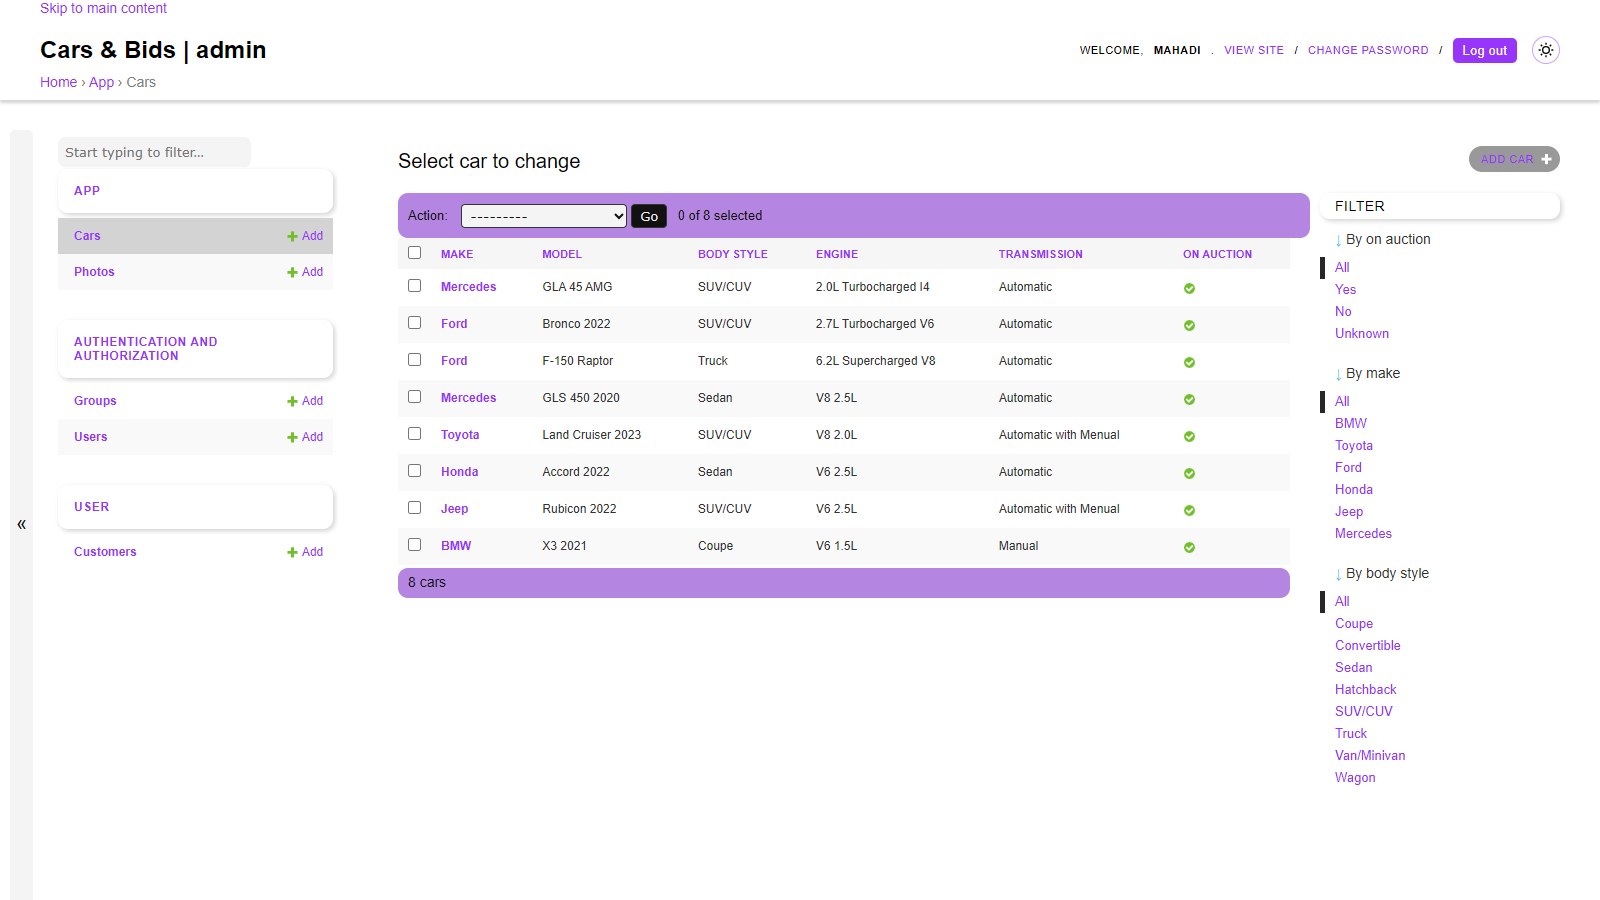
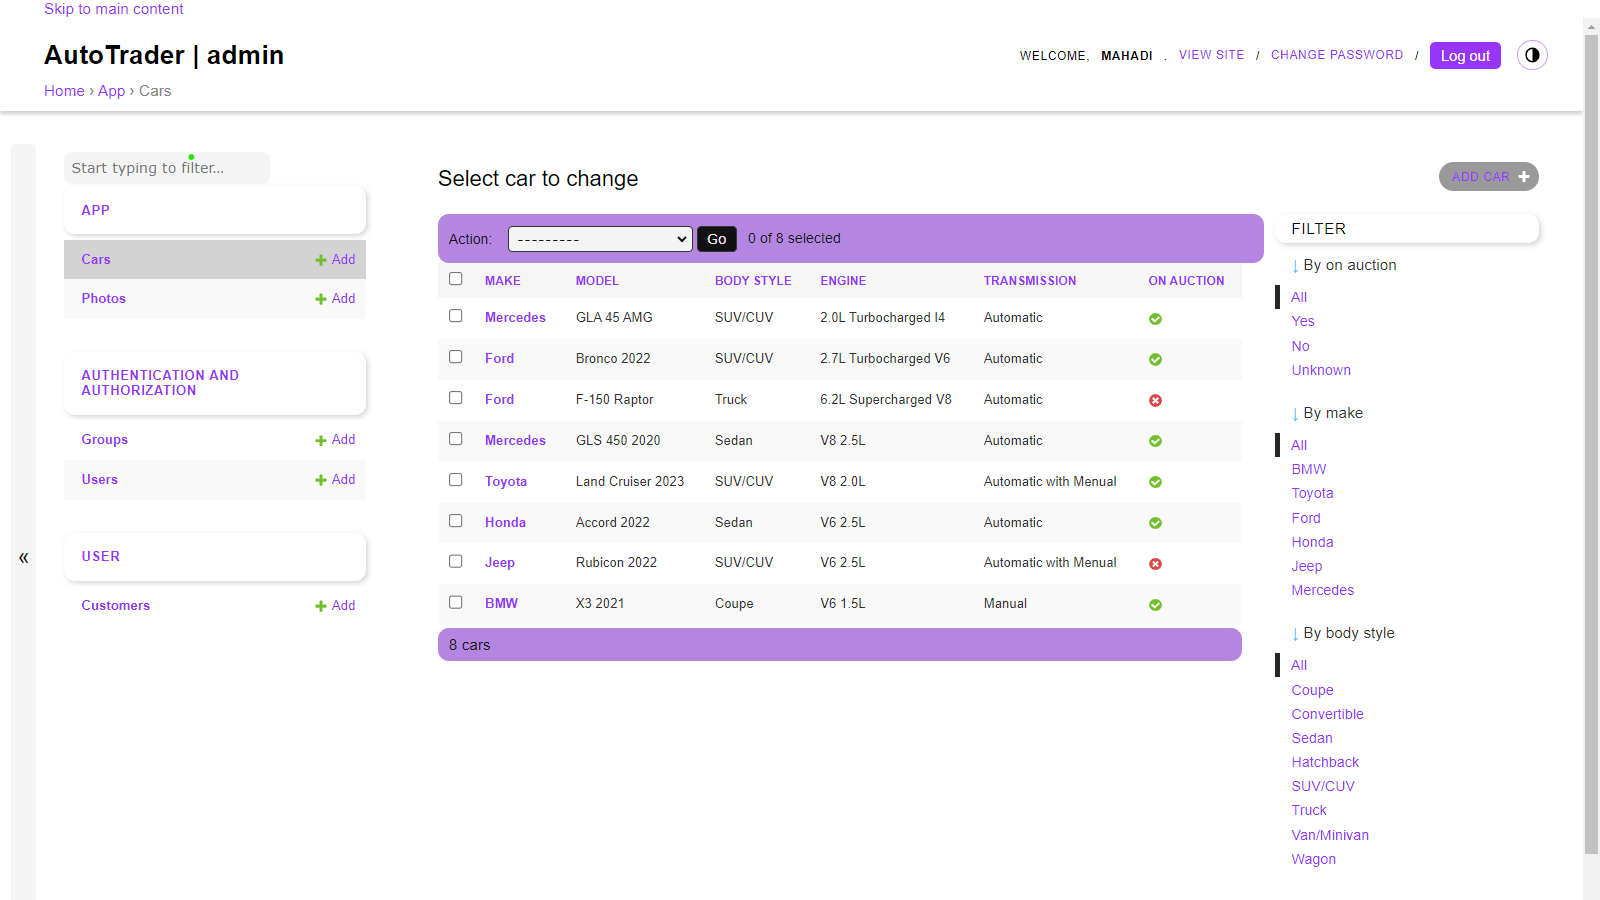
Admin

diff --git a/user/admin.py b/user/admin.py
@@ -1,7 +1,7 @@
 from django.contrib import admin
 from .models import Customer
 
-admin.site.site_header = 'Cars & Bids | admin'
+admin.site.site_header = 'AutoTrader | admin'
 
 @admin.register(Customer)
 class CustomerAdmin(admin.ModelAdmin):
